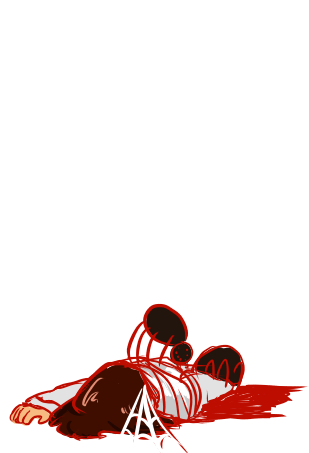
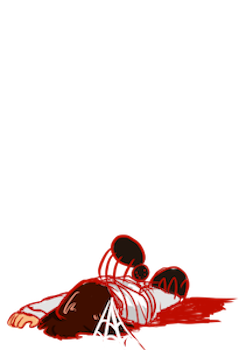
Body and Mummy Obstacles

diff --git a/src/scenes/Play.js b/src/scenes/Play.js
@@ -6,9 +6,12 @@ class Play extends Phaser.Scene {
     preload() {
         // load images/tile sprites
         this.load.image('lab', './assets/lab.png');
+        this.load.image('body', './assets/body.png');
+        this.load.image('mummy', './assets/mummy.png');
         
         // load spritesheet
         this.load.spritesheet('run', './assets/run_spritesheet.png', {frameWidth: 280, frameHeight: 280, startFrame: 0, endFrame: 11});
+        this.load.spritesheet('jump', './assets/jump_spritesheet.png', {frameWidth: 280, frameHeight: 280, startFrame: 0, endFrame: 2});
         this.load.spritesheet('spiderRun', './assets/spiderrunSpritesheet.png', {frameWidth: 680, frameHeight: 480, startFrame: 0, endFrame: 7});
     }
 
@@ -30,6 +33,14 @@ class Play extends Phaser.Scene {
             key: 'run',
             frames: this.anims.generateFrameNumbers('run', { start: 0, end: 10, first: 0}),
             frameRate: 20,
+            repeat: -1
+        });
+
+        // animation config
+        this.anims.create({
+            key: 'jump',
+            frames: this.anims.generateFrameNumbers('jump', { start: 0, end: 2, first: 0}),
+            frameRate: 10,
             repeat: -1
         });
 
@@ -59,6 +70,7 @@ class Play extends Phaser.Scene {
         spider.anims.play('spiderRun');
 
         //if player hits an obstacle, set spider's X to -300 :)
+        // ^should be in update
 
         // define keys
         keyW = this.input.keyboard.addKey(Phaser.Input.Keyboard.KeyCodes.W);
@@ -66,6 +78,10 @@ class Play extends Phaser.Scene {
         keyS = this.input.keyboard.addKey(Phaser.Input.Keyboard.KeyCodes.S);
         keyD = this.input.keyboard.addKey(Phaser.Input.Keyboard.KeyCodes.D);
 
+        // add obstacles
+        this.ob01 = new Obstacles(this, game.config.width + 10, 130, 'body', 0).setOrigin(0, 0);
+        this.ob02 = new Obstacles(this, game.config.width + 10, 130, 'mummy', 0).setOrigin(0,0);
+    
         // GAME OVER flag
         this.gameOver = false;
     }
@@ -75,6 +91,8 @@ class Play extends Phaser.Scene {
         this.lab.tilePositionX += 15;
 
         this.scientist.update();
+        //this.ob01.update();
+        this.ob02.update();
 
         // running
         /*
@@ -92,7 +110,31 @@ class Play extends Phaser.Scene {
             if(Phaser.Input.Keyboard.JustDown(keyW)){   
                 this.scientistisJumping = true;
                 this.scientist.body.setVelocityY(-200);
+                this.scientist.anims.play('jump');
             }
         } 
+
+        // check collisions
+        if(this.checkCollision(this.scientist, this.ob01)) {
+            // end game
+
+        }
+        if (this.checkCollision(this.scientist, this.ob02)) {
+            // end game
+            //this.gameOver = true;
+            //this.scene.start("endScene");  
+        }
+    }
+
+    checkCollision(scientist, ob) {
+        // simple AABB checking
+        if (scientist.x < ob.x + ob.width && 
+            scientist.x + scientist.width > ob.x && 
+            scientist.y < ob.y + ob.height &&
+            scientist.height + scientist.y > ob. y) {
+                return true;
+        } else {
+            return false;
+        }
     }
 }

diff --git a/src/prefabs/Obstacles.js b/src/prefabs/Obstacles.js
@@ -1,0 +1,23 @@
+class Obstacles extends Phaser.GameObjects.Sprite {
+    constructor(scene, x, y, texture, frame) {
+        super(scene, x, y, texture, frame);
+        scene.add.existing(this);
+        
+        // has to match scene speed
+        this.moveSpeed = 15;
+    }
+
+    update() {
+        // move obstacles left
+        this.x -= this.moveSpeed;
+        // wrap around from left edge to right edge
+        if(this.x <= 0 - this.width) {
+            this.reset();
+        }
+    }
+
+    // position reset
+    reset() {
+        this.x = game.config.width;
+    }
+}

diff --git a/src/scenes/End.js b/src/scenes/End.js
@@ -5,7 +5,7 @@ class End extends Phaser.Scene {
 
     preload(){
         // load assets
-        this.load.image('menu', './assets/menu.png');
+        this.load.image('end', './assets/end.png');
     }
 
     create() {
@@ -22,7 +22,6 @@ class End extends Phaser.Scene {
             //gameTimer: 60000    
           }
           //this.sound.play('sfx_beep');  
-          this.scene.start("playScene");  
         }
       }
 }

diff --git a/index.html b/index.html
@@ -15,6 +15,7 @@
 <body>
     <script src = "./lib/phaser.js"></script>
     <script src = "./src/prefabs/Runner.js"></script>
+    <script src = "./src/prefabs/Obstacles.js"></script>
     <script src = "./src/scenes/Warning.js"></script>
     <script src = "./src/scenes/Menu.js"></script>
     <script src = "./src/scenes/Play.js"></script>
